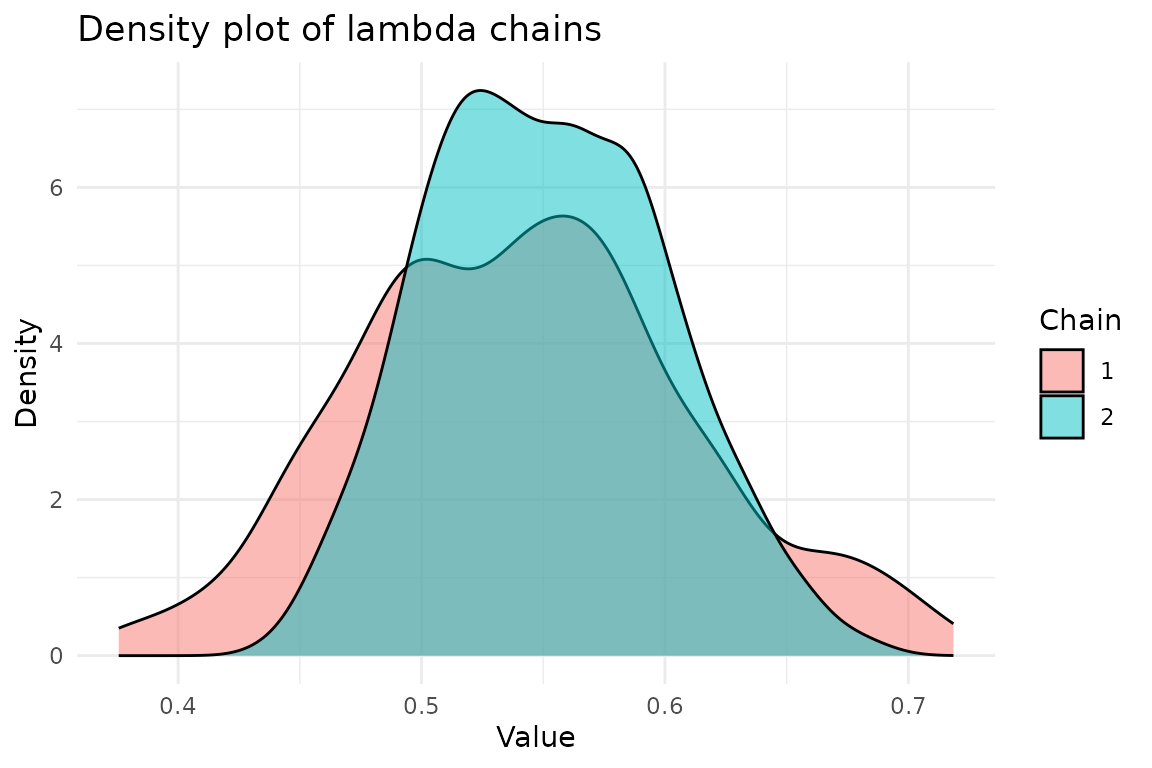
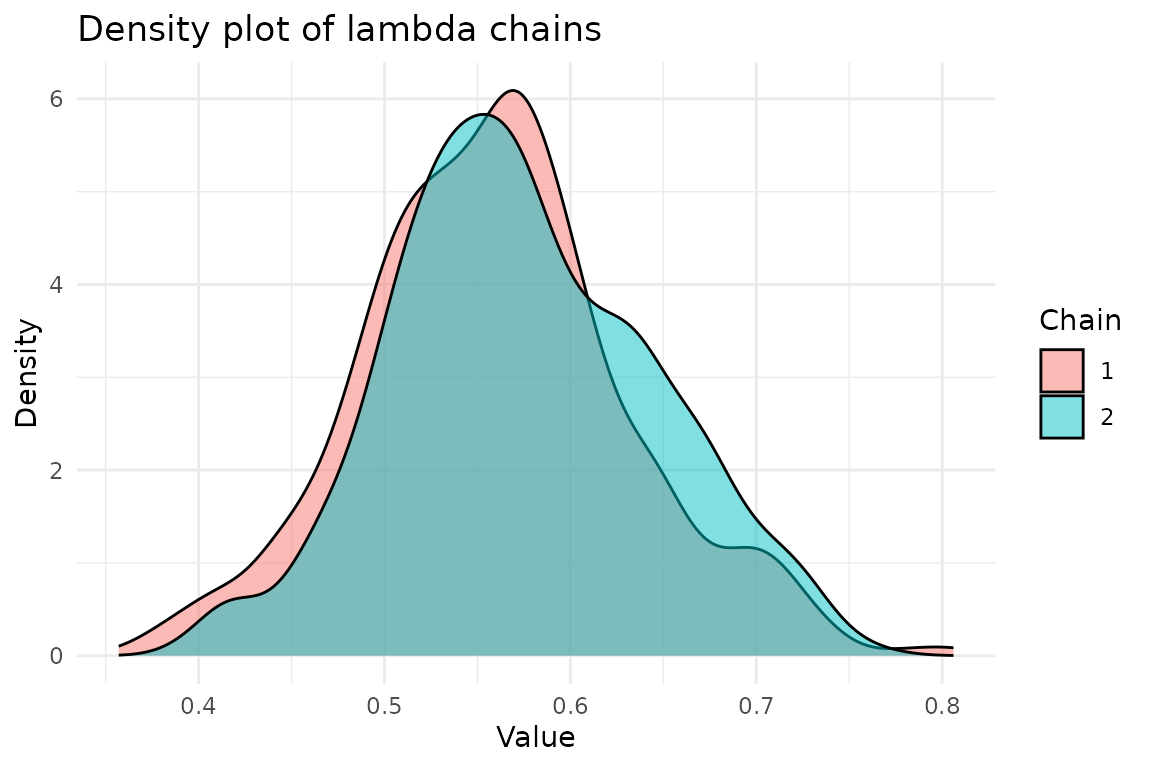
Deploying to gh-pages from @ BjarkeHautop/bayesSSM@cbcb2e7a09304ef8c983f8c3b3e9fcbf7b67c2c5 🚀

diff --git a/articles/bayesSSM.html b/articles/bayesSSM.html
@@ -218,31 +218,31 @@ should be on the
 <span><span class="co">#&gt; Running pilot chain for tuning...</span></span>
 <span><span class="co">#&gt; Pilot chain posterior mean:</span></span>
 <span><span class="co">#&gt;       phi   sigma_x   sigma_y </span></span>
-<span><span class="co">#&gt; 0.8504781 0.8465155 0.9828058</span></span>
+<span><span class="co">#&gt; 0.8366116 0.8055350 0.9033480</span></span>
 <span><span class="co">#&gt; Pilot chain posterior covariance (on transformed space):</span></span>
-<span><span class="co">#&gt;                  phi      sigma_x      sigma_y</span></span>
-<span><span class="co">#&gt; phi      0.002853161 -0.001659855  0.005267221</span></span>
-<span><span class="co">#&gt; sigma_x -0.001659855  0.030056091 -0.019598925</span></span>
-<span><span class="co">#&gt; sigma_y  0.005267221 -0.019598925  0.025940662</span></span>
+<span><span class="co">#&gt;                  phi     sigma_x    sigma_y</span></span>
+<span><span class="co">#&gt; phi      0.002886243  0.00745419 -0.0135152</span></span>
+<span><span class="co">#&gt; sigma_x  0.007454190  0.30397126 -0.2098967</span></span>
+<span><span class="co">#&gt; sigma_y -0.013515201 -0.20989672  0.2087795</span></span>
 <span><span class="co">#&gt; Using 50 particles for PMMH:</span></span>
 <span><span class="co">#&gt; Running Particle MCMC chain with tuned settings...</span></span>
 <span><span class="co">#&gt; Running chain 2...</span></span>
 <span><span class="co">#&gt; Running pilot chain for tuning...</span></span>
 <span><span class="co">#&gt; Pilot chain posterior mean:</span></span>
 <span><span class="co">#&gt;       phi   sigma_x   sigma_y </span></span>
-<span><span class="co">#&gt; 0.6443472 1.1777341 0.4654751</span></span>
+<span><span class="co">#&gt; 0.8571384 1.0670945 0.3961579</span></span>
 <span><span class="co">#&gt; Pilot chain posterior covariance (on transformed space):</span></span>
-<span><span class="co">#&gt;                   phi      sigma_x       sigma_y</span></span>
-<span><span class="co">#&gt; phi      4.532081e-03 -0.011399852 -3.544264e-05</span></span>
-<span><span class="co">#&gt; sigma_x -1.139985e-02  0.050376412 -1.354051e-03</span></span>
-<span><span class="co">#&gt; sigma_y -3.544264e-05 -0.001354051  1.003767e-02</span></span>
-<span><span class="co">#&gt; Using 343 particles for PMMH:</span></span>
+<span><span class="co">#&gt;                  phi      sigma_x      sigma_y</span></span>
+<span><span class="co">#&gt; phi      0.003330875 -0.001494631  0.007777211</span></span>
+<span><span class="co">#&gt; sigma_x -0.001494631  0.039551392 -0.027059704</span></span>
+<span><span class="co">#&gt; sigma_y  0.007777211 -0.027059704  0.035093804</span></span>
+<span><span class="co">#&gt; Using 93 particles for PMMH:</span></span>
 <span><span class="co">#&gt; Running Particle MCMC chain with tuned settings...</span></span>
 <span><span class="co">#&gt; PMMH Results Summary:</span></span>
 <span><span class="co">#&gt;  Parameter Mean   SD Median 2.5% 97.5% ESS  Rhat</span></span>
-<span><span class="co">#&gt;        phi 0.95 0.10   1.00 0.68  1.00   2 2.080</span></span>
-<span><span class="co">#&gt;    sigma_x 0.98 0.40   1.04 0.26  1.67   1 1.426</span></span>
-<span><span class="co">#&gt;    sigma_y 0.69 0.53   0.51 0.05  1.57   1 2.584</span></span>
+<span><span class="co">#&gt;        phi 0.99 0.02   1.00 0.91  1.00   4 1.513</span></span>
+<span><span class="co">#&gt;    sigma_x 1.21 0.37   1.21 0.45  1.89  31 1.072</span></span>
+<span><span class="co">#&gt;    sigma_y 0.68 0.37   0.55 0.19  1.36  25 1.070</span></span>
 <span><span class="co">#&gt; Warning in pmmh(y = y, m = 1000, init_fn = init_fn, transition_fn =</span></span>
 <span><span class="co">#&gt; transition_fn, : Some ESS values are below 400, indicating poor mixing.</span></span>
 <span><span class="co">#&gt; Consider running the chains for more iterations.</span></span>
@@ -259,9 +259,9 @@ be printed from any <code>pmmh_output</code> object by calling
 <code class="sourceCode R"><span><span class="fu"><a href="https://rdrr.io/r/base/print.html" class="external-link">print</a></span><span class="op">(</span><span class="va">result</span><span class="op">)</span></span>
 <span><span class="co">#&gt; PMMH Results Summary:</span></span>
 <span><span class="co">#&gt;  Parameter Mean   SD Median 2.5% 97.5% ESS  Rhat</span></span>
-<span><span class="co">#&gt;        phi 0.95 0.10   1.00 0.68  1.00   2 2.080</span></span>
-<span><span class="co">#&gt;    sigma_x 0.98 0.40   1.04 0.26  1.67   1 1.426</span></span>
-<span><span class="co">#&gt;    sigma_y 0.69 0.53   0.51 0.05  1.57   1 2.584</span></span></code></pre></div>
+<span><span class="co">#&gt;        phi 0.99 0.02   1.00 0.91  1.00   4 1.513</span></span>
+<span><span class="co">#&gt;    sigma_x 1.21 0.37   1.21 0.45  1.89  31 1.072</span></span>
+<span><span class="co">#&gt;    sigma_y 0.68 0.37   0.55 0.19  1.36  25 1.070</span></span></code></pre></div>
 <p>The chains are saved as <code>theta_chain</code></p>
 <div class="sourceCode" id="cb8"><pre class="downlit sourceCode r">
 <code class="sourceCode R"><span><span class="va">chains</span> <span class="op">&lt;-</span> <span class="va">result</span><span class="op">$</span><span class="va">theta_chain</span></span></code></pre></div>

diff --git a/reference/pmmh.html b/reference/pmmh.html
@@ -294,9 +294,9 @@ Journal of the Royal Statistical Society: Series B (Statistical Methodology),
 <span class="r-msg co"><span class="r-pr">#&gt;</span> Running Particle MCMC chain with tuned settings...</span>
 <span class="r-out co"><span class="r-pr">#&gt;</span> PMMH Results Summary:</span>
 <span class="r-out co"><span class="r-pr">#&gt;</span>  Parameter Mean   SD Median  2.5% 97.5% ESS  Rhat</span>
-<span class="r-out co"><span class="r-pr">#&gt;</span>        phi 0.52 1.02   0.61 -2.01  2.06  57 1.054</span>
-<span class="r-out co"><span class="r-pr">#&gt;</span>    sigma_x 1.24 1.23   0.86  0.04  4.36   9 1.124</span>
-<span class="r-out co"><span class="r-pr">#&gt;</span>    sigma_y 0.66 0.24   0.63  0.30  1.19 119 1.038</span>
+<span class="r-out co"><span class="r-pr">#&gt;</span>        phi 0.54 1.03   0.66 -1.68  2.34  25 1.022</span>
+<span class="r-out co"><span class="r-pr">#&gt;</span>    sigma_x 1.55 1.23   1.29  0.08  4.75  64 1.044</span>
+<span class="r-out co"><span class="r-pr">#&gt;</span>    sigma_y 0.64 0.24   0.61  0.30  1.21  91 1.016</span>
 <span class="r-wrn co"><span class="r-pr">#&gt;</span> <span class="warning">Warning: </span>Some ESS values are below 400, indicating poor mixing. Consider running the chains for more iterations.</span>
 <span class="r-wrn co"><span class="r-pr">#&gt;</span> <span class="warning">Warning: </span></span>
 <span class="r-wrn co"><span class="r-pr">#&gt;</span> Some Rhat values are above 1.01, indicating that the chains have not converged. </span>
@@ -340,9 +340,9 @@ Journal of the Royal Statistical Society: Series B (Statistical Methodology),
 <span class="r-msg co"><span class="r-pr">#&gt;</span> Running Particle MCMC chain with tuned settings...</span>
 <span class="r-out co"><span class="r-pr">#&gt;</span> PMMH Results Summary:</span>
 <span class="r-out co"><span class="r-pr">#&gt;</span>  Parameter Mean   SD Median  2.5% 97.5% ESS  Rhat</span>
-<span class="r-out co"><span class="r-pr">#&gt;</span>        phi 0.59 0.97   0.71 -1.73  2.23 151 1.011</span>
-<span class="r-out co"><span class="r-pr">#&gt;</span>    sigma_x 1.47 1.22   1.16  0.05  4.50  98 1.004</span>
-<span class="r-out co"><span class="r-pr">#&gt;</span>    sigma_y 0.69 0.29   0.65  0.33  1.36  85 1.017</span>
+<span class="r-out co"><span class="r-pr">#&gt;</span>        phi 0.14 1.21   0.37 -2.24  2.23  36 1.088</span>
+<span class="r-out co"><span class="r-pr">#&gt;</span>    sigma_x 1.68 1.21   1.49  0.07  4.59  68 1.046</span>
+<span class="r-out co"><span class="r-pr">#&gt;</span>    sigma_y 0.67 0.24   0.62  0.33  1.28  83 1.017</span>
 <span class="r-wrn co"><span class="r-pr">#&gt;</span> <span class="warning">Warning: </span>Some ESS values are below 400, indicating poor mixing. Consider running the chains for more iterations.</span>
 <span class="r-wrn co"><span class="r-pr">#&gt;</span> <span class="warning">Warning: </span></span>
 <span class="r-wrn co"><span class="r-pr">#&gt;</span> Some Rhat values are above 1.01, indicating that the chains have not converged. </span>

diff --git a/articles/sir-model.html b/articles/sir-model.html
@@ -397,28 +397,28 @@ higher.</p>
 <span><span class="co">#&gt; Running pilot chain for tuning...</span></span>
 <span><span class="co">#&gt; Pilot chain posterior mean:</span></span>
 <span><span class="co">#&gt;    lambda     gamma </span></span>
-<span><span class="co">#&gt; 0.5881027 0.2127300</span></span>
+<span><span class="co">#&gt; 0.5744942 0.2023182</span></span>
 <span><span class="co">#&gt; Pilot chain posterior covariance (on transformed space):</span></span>
-<span><span class="co">#&gt;             lambda        gamma</span></span>
-<span><span class="co">#&gt; lambda 0.010907941 0.0018724407</span></span>
-<span><span class="co">#&gt; gamma  0.001872441 0.0003879703</span></span>
+<span><span class="co">#&gt;              lambda        gamma</span></span>
+<span><span class="co">#&gt; lambda 0.0049477745 0.0008807493</span></span>
+<span><span class="co">#&gt; gamma  0.0008807493 0.0001576646</span></span>
 <span><span class="co">#&gt; Using 50 particles for PMMH:</span></span>
 <span><span class="co">#&gt; Running Particle MCMC chain with tuned settings...</span></span>
 <span><span class="co">#&gt; Running chain 2...</span></span>
 <span><span class="co">#&gt; Running pilot chain for tuning...</span></span>
 <span><span class="co">#&gt; Pilot chain posterior mean:</span></span>
 <span><span class="co">#&gt;    lambda     gamma </span></span>
-<span><span class="co">#&gt; 0.4549656 0.1785082</span></span>
+<span><span class="co">#&gt; 0.5228747 0.1919012</span></span>
 <span><span class="co">#&gt; Pilot chain posterior covariance (on transformed space):</span></span>
 <span><span class="co">#&gt;              lambda        gamma</span></span>
-<span><span class="co">#&gt; lambda 1.366952e-04 3.586485e-05</span></span>
-<span><span class="co">#&gt; gamma  3.586485e-05 4.459946e-05</span></span>
+<span><span class="co">#&gt; lambda 0.0018259219 0.0005323758</span></span>
+<span><span class="co">#&gt; gamma  0.0005323758 0.0001830201</span></span>
 <span><span class="co">#&gt; Using 50 particles for PMMH:</span></span>
 <span><span class="co">#&gt; Running Particle MCMC chain with tuned settings...</span></span>
 <span><span class="co">#&gt; PMMH Results Summary:</span></span>
 <span><span class="co">#&gt;  Parameter Mean   SD Median 2.5% 97.5% ESS  Rhat</span></span>
-<span><span class="co">#&gt;     lambda 0.55 0.06   0.55 0.44  0.67  54 1.008</span></span>
-<span><span class="co">#&gt;      gamma 0.20 0.02   0.20 0.17  0.24  63 1.022</span></span>
+<span><span class="co">#&gt;     lambda 0.57 0.07   0.56 0.42  0.72 109 1.012</span></span>
+<span><span class="co">#&gt;      gamma 0.21 0.02   0.21 0.17  0.24  70 1.020</span></span>
 <span><span class="co">#&gt; Warning in bayesSSM::pmmh(y = observations, m = 1000, init_fn =</span></span>
 <span><span class="co">#&gt; init_fn_epidemic, : Some ESS values are below 400, indicating poor mixing.</span></span>
 <span><span class="co">#&gt; Consider running the chains for more iterations.</span></span>

diff --git a/reference/rhat.html b/reference/rhat.html
@@ -73,7 +73,7 @@ column and parameter columns.</p></dd>
     <div class="sourceCode"><pre class="sourceCode r"><code><span class="r-in"><span><span class="co"># Example with matrix</span></span></span>
 <span class="r-in"><span><span class="va">chains</span> <span class="op">&lt;-</span> <span class="fu"><a href="https://rdrr.io/r/base/matrix.html" class="external-link">matrix</a></span><span class="op">(</span><span class="fu"><a href="https://rdrr.io/r/stats/Normal.html" class="external-link">rnorm</a></span><span class="op">(</span><span class="fl">3000</span><span class="op">)</span>, nrow <span class="op">=</span> <span class="fl">1000</span>, ncol <span class="op">=</span> <span class="fl">3</span><span class="op">)</span></span></span>
 <span class="r-in"><span><span class="fu">rhat</span><span class="op">(</span><span class="va">chains</span><span class="op">)</span></span></span>
-<span class="r-out co"><span class="r-pr">#&gt;</span> [1] 1.000778</span>
+<span class="r-out co"><span class="r-pr">#&gt;</span> [1] 1.00017</span>
 <span class="r-in"><span><span class="co">#' # Example with data frame</span></span></span>
 <span class="r-in"><span><span class="va">chains_df</span> <span class="op">&lt;-</span> <span class="fu"><a href="https://rdrr.io/r/base/data.frame.html" class="external-link">data.frame</a></span><span class="op">(</span></span></span>
 <span class="r-in"><span>  chain <span class="op">=</span> <span class="fu"><a href="https://rdrr.io/r/base/rep.html" class="external-link">rep</a></span><span class="op">(</span><span class="fl">1</span><span class="op">:</span><span class="fl">3</span>, each <span class="op">=</span> <span class="fl">1000</span><span class="op">)</span>,</span></span>
@@ -81,8 +81,8 @@ column and parameter columns.</p></dd>
 <span class="r-in"><span>  param2 <span class="op">=</span> <span class="fu"><a href="https://rdrr.io/r/stats/Normal.html" class="external-link">rnorm</a></span><span class="op">(</span><span class="fl">3000</span><span class="op">)</span></span></span>
 <span class="r-in"><span><span class="op">)</span></span></span>
 <span class="r-in"><span><span class="fu">rhat</span><span class="op">(</span><span class="va">chains_df</span><span class="op">)</span></span></span>
-<span class="r-out co"><span class="r-pr">#&gt;</span> param1 param2 </span>
-<span class="r-out co"><span class="r-pr">#&gt;</span>      1      1 </span>
+<span class="r-out co"><span class="r-pr">#&gt;</span>   param1   param2 </span>
+<span class="r-out co"><span class="r-pr">#&gt;</span> 1.000000 1.000399 </span>
 </code></pre></div>
     </div>
   </main><aside class="col-md-3"><nav id="toc" aria-label="Table of contents"><h2>On this page</h2>

diff --git a/reference/summary.pmmh_output.html b/reference/summary.pmmh_output.html
@@ -81,9 +81,9 @@ means, standard deviations, medians, credible intervals, and diagnostics.</p>
 <span class="r-in"><span><span class="op">)</span></span></span>
 <span class="r-in"><span><span class="fu"><a href="https://rdrr.io/r/base/class.html" class="external-link">class</a></span><span class="op">(</span><span class="va">dummy_output</span><span class="op">)</span> <span class="op">&lt;-</span> <span class="st">"pmmh_output"</span></span></span>
 <span class="r-in"><span><span class="fu"><a href="https://rdrr.io/r/base/summary.html" class="external-link">summary</a></span><span class="op">(</span><span class="va">dummy_output</span><span class="op">)</span></span></span>
-<span class="r-out co"><span class="r-pr">#&gt;</span>               mean        sd      median      2.5%    97.5% ESS Rhat</span>
-<span class="r-out co"><span class="r-pr">#&gt;</span> param1 -0.02653367 0.9663873 -0.02312797 -1.813006 1.688369 200 1.01</span>
-<span class="r-out co"><span class="r-pr">#&gt;</span> param2  0.13217494 1.0414632  0.19364331 -2.002105 1.946374 190 1.00</span>
+<span class="r-out co"><span class="r-pr">#&gt;</span>               mean        sd     median      2.5%    97.5% ESS Rhat</span>
+<span class="r-out co"><span class="r-pr">#&gt;</span> param1 -0.09052223 0.9867457  0.0139562 -2.124148 2.005799 200 1.01</span>
+<span class="r-out co"><span class="r-pr">#&gt;</span> param2 -0.12282298 1.0834494 -0.1747597 -2.195476 2.122307 190 1.00</span>
 </code></pre></div>
     </div>
   </main><aside class="col-md-3"><nav id="toc" aria-label="Table of contents"><h2>On this page</h2>

diff --git a/reference/print.pmmh_output.html b/reference/print.pmmh_output.html
@@ -89,8 +89,8 @@ a quick overview of the posterior distribution and convergence diagnostics.</p>
 <span class="r-in"><span><span class="fu"><a href="https://rdrr.io/r/base/print.html" class="external-link">print</a></span><span class="op">(</span><span class="va">dummy_output</span><span class="op">)</span></span></span>
 <span class="r-out co"><span class="r-pr">#&gt;</span> PMMH Results Summary:</span>
 <span class="r-out co"><span class="r-pr">#&gt;</span>  Parameter Mean   SD Median  2.5% 97.5% ESS Rhat</span>
-<span class="r-out co"><span class="r-pr">#&gt;</span>     param1 0.03 0.96   0.06 -1.73  1.92 200 1.01</span>
-<span class="r-out co"><span class="r-pr">#&gt;</span>     param2 0.07 0.94   0.15 -1.79  1.83 190 1.00</span>
+<span class="r-out co"><span class="r-pr">#&gt;</span>     param1 0.02 1.06   0.04 -1.98  2.00 200 1.01</span>
+<span class="r-out co"><span class="r-pr">#&gt;</span>     param2 0.12 1.00   0.10 -1.88  2.04 190 1.00</span>
 </code></pre></div>
     </div>
   </main><aside class="col-md-3"><nav id="toc" aria-label="Table of contents"><h2>On this page</h2>
